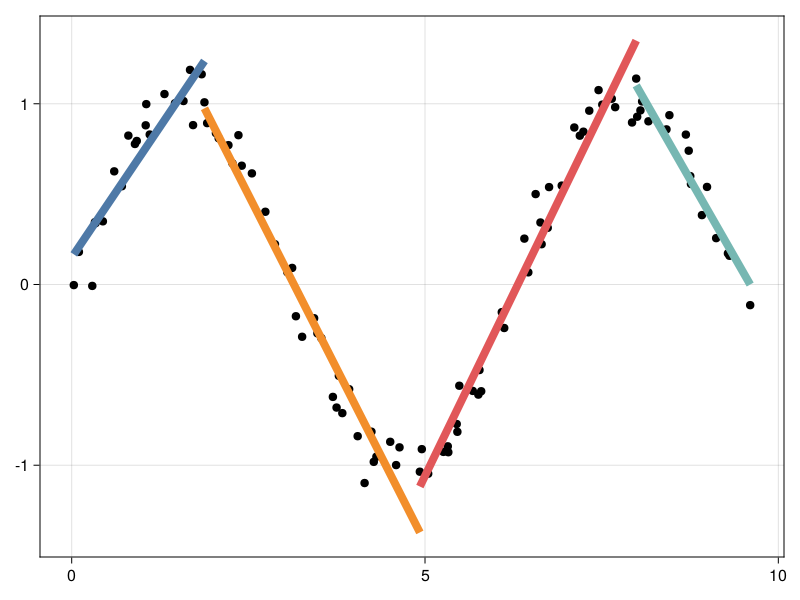
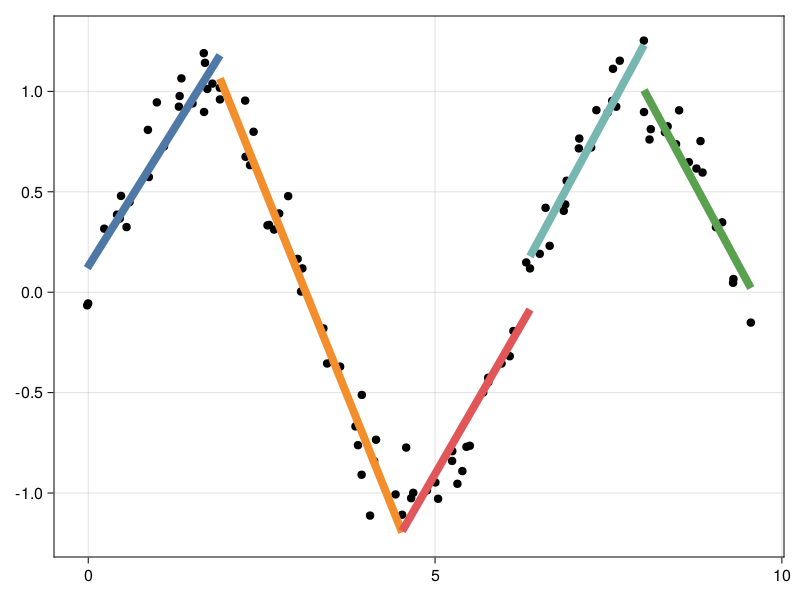
add utility plotting functions

diff --git a/README.md b/README.md
@@ -46,6 +46,12 @@ algorithm is the cheapest to run, but may generate worse fits due to its
 simplicity (notice the overshoots in the picture).
 ```julia
 segs, fits = sliding_window(xs, ys; min_segment_length=1.2, max_rmse=0.15)
+
+using CairoMakie
+# skipped some plotting steps
+for (i, (_xs, _ys)) in enumerate(xypairs(segs, fits, xs))
+    lines!(ax, _xs, _ys; color=ColorSchemes.tableau_10[i], linewidth=8)
+end
 ```
 ![Sliding window segmentation](imgs/sliding_window.png)
 
@@ -54,7 +60,15 @@ This algorithm recursively splits the data into two parts, attempting to find
 segments that are both long enough, and have a good enough fit (set via the
 kwargs). In my experience, this is the most robust algorithm, but ymmv.
 ```julia
+using LinearSegmentation, CairoMakie
+
 segs, fits = top_down(xs, ys; min_segment_length=1.2, max_rmse=0.15)
+
+# skipped some plotting steps
+for (i, (_xs, _ys, _lbs, _ubs)) in enumerate(xyboundgroups(segs, fits, xs))
+    lines!(ax, _xs, _ys; color=ColorSchemes.tableau_10[i], linewidth=8)
+    band!(ax, _xs, _lbs, _ubs; color=(ColorSchemes.tableau_10[i], 0.2))
+end
 ```
 ![Top down segmentation](imgs/top_down.png)
 
@@ -69,6 +83,8 @@ with `Graphs.a_star` (see
 the best segmentation.
 ```julia
 segs, fits = graph_segmentation(xs, ys; min_segment_length=1.2, max_rmse=0.15)
+
+# similar plotting as before can be done here...
 ```
 ![Graph segmentation](imgs/graph_segmentation.png)
 
